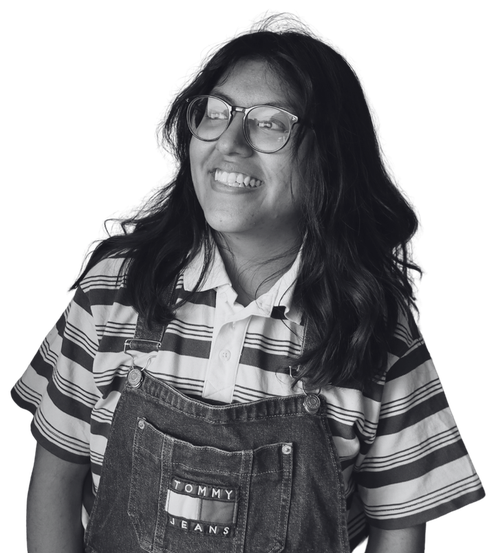
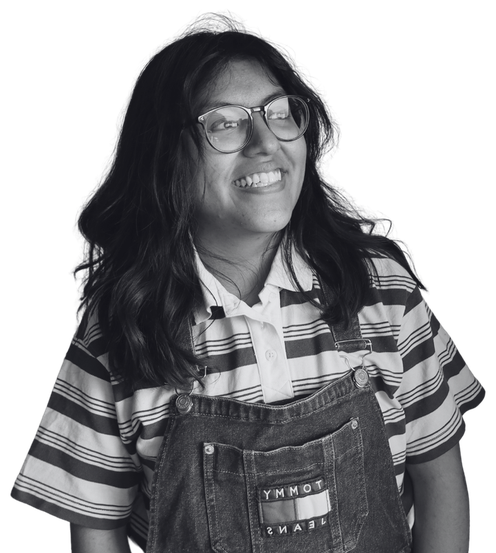
Polish round: font, LinkedIn fix, mirrored portrait, clean assets, audio
- Script font: Caveat -> Give You Glory -> Homemade Apple -> Alex
  Brush -> Mrs Saint Delafield, settled after the user compared free
  Google Fonts alternatives (Benedict/Brittany/"Signature" are all
  paid fonts not licensed for web use)
- LinkedIn badge now uses a proper icon (brand blue, recognizable "in"
  mark) instead of a plain black square with text
- Fixed the badge not being clickable: the hero name's transparent
  h1 box spans the full hero section with z-index:1 and was sitting
  on top of it, swallowing the click
- Mirrored the closing portrait (bottom of page) instead of the
  profil one per the user's correction
- Arken Zoo logo had a browser tooltip ("Arkenzoo.se") baked into the
  screenshot it was extracted from; replaced it with the real
  official SVG fetched directly from arkenzoo.se
- Fixed the NWT arrow's arrowhead pointing a different direction than
  its own curve
- Hem for stunden spread images were accidentally built from an
  800x509 Canva CDN download instead of the user's actual 5103x3249
  original, making them noticeably soft; re-cropped from the original
- Video now unmutes when the user actually clicks to play it (can't
  autoplay with sound on scroll per browser policy, but a real click
  is exempt from that restriction)

diff --git a/index.html b/index.html
@@ -7,7 +7,7 @@
 <meta name="description" content="Portfolio för Tuva Mirtha Sandberg — Kommunikation och PR.">
 <link rel="preconnect" href="https://fonts.googleapis.com">
 <link rel="preconnect" href="https://fonts.gstatic.com" crossorigin>
-<link href="https://fonts.googleapis.com/css2?family=Caveat:wght@500;600&family=EB+Garamond:ital@0;1&family=Inter:ital,wght@0,400;0,700;0,800;1,700&display=swap" rel="stylesheet">
+<link href="https://fonts.googleapis.com/css2?family=Mrs+Saint+Delafield&family=EB+Garamond:ital@0;1&family=Inter:ital,wght@0,400;0,700;0,800;1,700&display=swap" rel="stylesheet">
 <link rel="stylesheet" href="css/style.css">
 </head>
 <body>
@@ -15,7 +15,9 @@
 <header class="stage hero-stage reveal is-visible" id="hero">
   <div class="hero-circle" aria-hidden="true"></div>
   <h1 class="hero-name">Tuva Mirtha Sandberg</h1>
-  <a class="linkedin-badge" href="https://www.linkedin.com/in/tuva-sandberg-942648289" target="_blank" rel="noopener" aria-label="LinkedIn">in</a>
+  <a class="linkedin-badge" href="https://www.linkedin.com/in/tuva-sandberg-942648289/" target="_blank" rel="noopener" aria-label="Besök Tuvas LinkedIn-profil">
+    <svg viewBox="0 0 24 24" fill="currentColor" aria-hidden="true"><path d="M20.45 20.45h-3.56v-5.57c0-1.33-.02-3.03-1.85-3.03-1.85 0-2.14 1.45-2.14 2.94v5.66H9.34V9h3.41v1.56h.05c.48-.9 1.64-1.85 3.38-1.85 3.6 0 4.27 2.37 4.27 5.46v6.28zM5.34 7.43a2.07 2.07 0 1 1 0-4.13 2.07 2.07 0 0 1 0 4.13zM7.12 20.45H3.56V9h3.56v11.45z"/></svg>
+  </a>
 </header>
 
 <main>
@@ -94,7 +96,7 @@
   <h2 class="nwt-heading">
     <em>Kampanj:</em> NWT Bredband
     <svg class="nwt-arrow" viewBox="0 0 71 60" fill="none" xmlns="http://www.w3.org/2000/svg" aria-hidden="true">
-      <path d="M4 6C22 10 45 20 58 40M58 40L46 36M58 40L54 53" stroke="#3a3ad6" stroke-width="6" stroke-linecap="round" stroke-linejoin="round"/>
+      <path d="M10 7C10 32 22 46 42 52M42 52L34 43M42 52L30 54" stroke="#3a3ad6" stroke-width="6" stroke-linecap="round" stroke-linejoin="round"/>
     </svg>
   </h2>
   <p class="nwt-body">I ett gruppsamarbete med NWT Bredband skapades digitala affischer riktat fokus på landsbygden som målgrupp. En framtagen kampanj för leverantören i samband med bredbandets release till fler orter, inom och utanför Värmland. Fotografering i Arvika på en gård nära min uppväxt och skapat med Adobe InDesign. &ndash; Mitt urval från kampanjen.</p>
@@ -117,7 +119,7 @@
   <img class="mobilskal-img" src="assets/images/web/mobilskal-cutout.png" alt="Mobilskal med berlocker" loading="lazy">
   <img class="butiksbild-img" src="assets/images/web/butiksbild.jpg" alt="DRM-LND butiksdisplay" loading="lazy">
   <img class="sellpy-logo" src="assets/images/web/sellpy-logo.png" alt="Sellpy" loading="lazy">
-  <img class="arkenzoo-logo" src="assets/images/web/arkenzoo-logo.png" alt="Arken Zoo" loading="lazy">
+  <img class="arkenzoo-logo" src="assets/images/web/arkenzoo-logo.svg" alt="Arken Zoo" loading="lazy">
   <p class="collab-credit">Mitt förespråkande för secondhand-shoppande resulterade i ett samarbete med Sellpy, medan mitt livsstils &ldquo;content&rdquo; landade i ett samarbete med Arken Zoo. För respektive företag filmade och redigerade jag videoklipp med varderas produkter.</p>
 </section>
 
@@ -132,7 +134,6 @@
 
 <footer class="site-footer">
   <p>&copy; 2026 Tuva Mirtha Sandberg</p>
-  <a href="mailto:tuvamirthasandberg@icloud.com">tuvamirthasandberg@icloud.com</a>
 </footer>
 
 <script src="js/main.js"></script>

diff --git a/css/style.css b/css/style.css
@@ -3,7 +3,7 @@
   --text: #000000;
   --ink: #212126;
   --accent-teal: #5cc7db;
-  --font-script: 'Caveat', cursive;
+  --font-script: 'Mrs Saint Delafield', cursive;
   --font-serif: 'EB Garamond', serif;
   --font-sans: 'Inter', sans-serif;
 }
@@ -51,7 +51,7 @@ main { display: block; }
   align-items: center;
   justify-content: center;
   font-family: var(--font-script);
-  font-weight: 600;
+  font-weight: 400;
   font-size: min(5vw, 72px);
   text-align: center;
   white-space: nowrap;
@@ -59,20 +59,23 @@ main { display: block; }
 
 .linkedin-badge {
   position: absolute;
+  z-index: 2;
   left: min(92.08vw, 1326px);
   top: min(47.99vw, 691px);
-  width: min(1.94vw, 28px);
-  height: min(1.67vw, 24px);
+  width: min(2vw, 29px);
+  height: min(2vw, 29px);
   display: flex;
   align-items: center;
   justify-content: center;
-  background: var(--text);
-  color: var(--bg);
-  font-family: var(--font-sans);
-  font-weight: 700;
-  font-size: min(0.9vw, 13px);
+  background: #0a66c2;
+  color: #fff;
   text-decoration: none;
-  border-radius: 3px;
+  border-radius: 6px;
+}
+
+.linkedin-badge svg {
+  width: 70%;
+  height: 70%;
 }
 
 /* ---------- 2. Profil ---------- */
@@ -143,7 +146,7 @@ main { display: block; }
   transform: translateX(-50%) rotate(-5deg);
   margin: 0;
   font-family: var(--font-script);
-  font-weight: 600;
+  font-weight: 400;
   font-size: min(3.6vw, 52px);
   text-align: center;
   white-space: nowrap;
@@ -619,7 +622,7 @@ main { display: block; }
   .hero-name { font-size: 11vw; white-space: normal; padding: 0 8px; }
   .linkedin-badge {
     left: auto; right: 24px; top: auto; bottom: 24px;
-    width: 32px; height: 28px; font-size: 13px;
+    width: 34px; height: 34px;
   }
 
   .profil-stage, .magasin-cover-stage, .magasin-content-stage,

diff --git a/js/main.js b/js/main.js
@@ -34,26 +34,23 @@ if (video && toggle && phoneFrame) {
 
   const play = () => video.play().catch(() => {});
 
+  const userToggle = () => {
+    if (video.paused) {
+      userPaused = false;
+      video.muted = false; // safe here: this only runs from a real click, so it isn't blocked by autoplay-with-sound policies
+      play();
+    } else {
+      userPaused = true;
+      video.pause();
+    }
+  };
+
   toggle.addEventListener('click', (e) => {
     e.stopPropagation();
-    if (video.paused) {
-      userPaused = false;
-      play();
-    } else {
-      userPaused = true;
-      video.pause();
-    }
+    userToggle();
   });
 
-  phoneFrame.addEventListener('click', () => {
-    if (video.paused) {
-      userPaused = false;
-      play();
-    } else {
-      userPaused = true;
-      video.pause();
-    }
-  });
+  phoneFrame.addEventListener('click', userToggle);
 
   video.addEventListener('play', syncUi);
   video.addEventListener('pause', syncUi);

diff --git a/ASSET-LICENSES.md b/ASSET-LICENSES.md
@@ -18,7 +18,7 @@ Den här filen dokumenterar var varje mediefil i `assets/images/web/` kommer ifr
 | `mobilskal-cutout.png` | Produktfoto, mobilskal från DRM-LND | Sannolikt eget foto av tredje parts produkt | Bekräfta fotograf; produkten/designen ägs av DRM-LND |
 | `butiksbild.jpg` | Foto av DRM-LNDs butiksdisplay | Sannolikt eget foto | Se ovan |
 | `sellpy-logo.png` | Sellpys logotyp | Tredje parts varumärke | Nämns som samarbetspartner i texten |
-| `arkenzoo-logo.png` | Arken Zoos logotyp | Tredje parts varumärke | Nämns som samarbetspartner i texten |
+| `arkenzoo-logo.svg` | Arken Zoos officiella logotyp, hämtad direkt från arkenzoo.se (ersatte en tidigare skärmdump som råkat få med en webbläsartooltip/länktext) | Tredje parts varumärke | Nämns som samarbetspartner i texten |
 | `tiktok-video.mp4` | Videoklipp från Tuvas TikTok-konto | Eget innehåll (troligt) | Eventuell bakgrundsmusik/ljud kan ha egen upphovsrätt oberoende av videon |
 
 ## Borttaget i denna rättighetsöversyn
